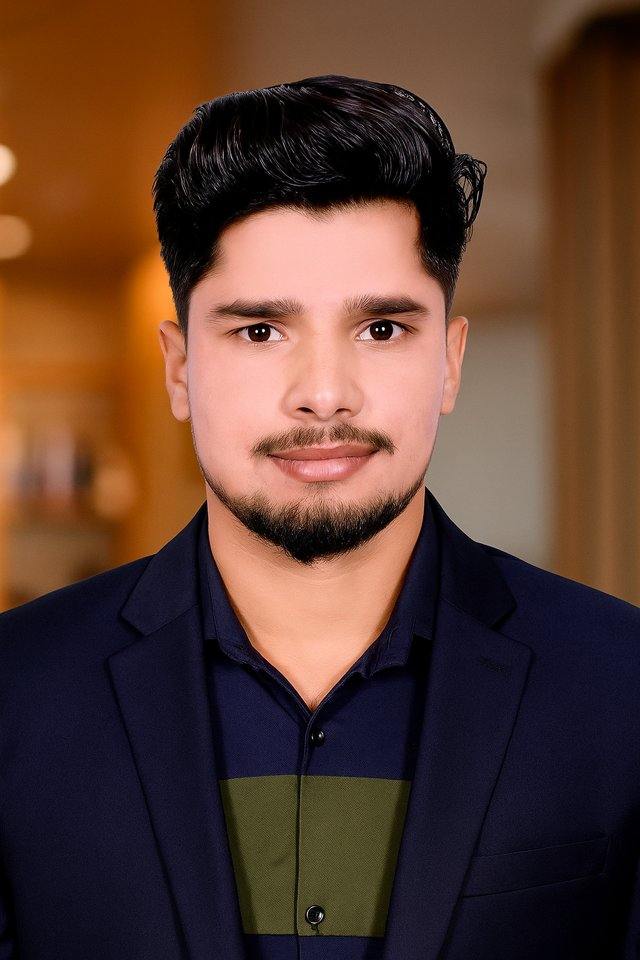
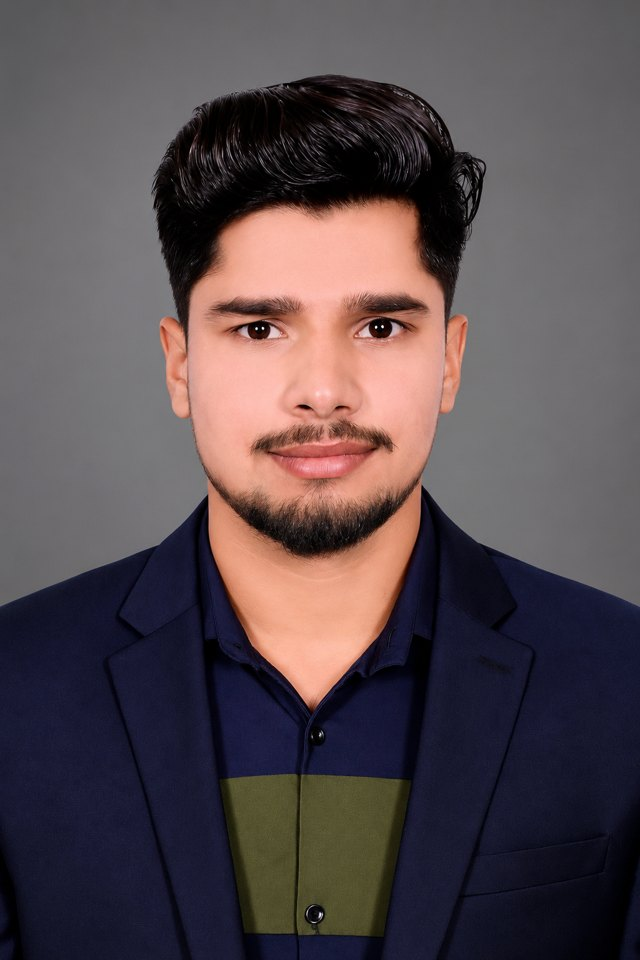
Use new professional profile photo

diff --git a/index.html b/index.html
@@ -8,7 +8,7 @@
   <meta name="description" content="Mohd Anas — Data Analyst, Data Scientist and Machine Learning Engineer based in Noida, India. Python, SQL, scikit-learn, RAG, LangGraph, Power BI.">
   <meta property="og:title" content="Mohd Anas | Data Scientist & ML Engineer">
   <meta property="og:description" content="Data analytics, machine learning and agentic AI projects.">
-  <meta property="og:image" content="profile.jpg">
+  <meta property="og:image" content="profile.jpg?v=2">
   <link rel="preconnect" href="https://fonts.googleapis.com">
   <link rel="preconnect" href="https://fonts.gstatic.com" crossorigin>
   <link href="https://fonts.googleapis.com/css2?family=Inter:wght@400;500;600;700;800&family=JetBrains+Mono:wght@500&display=swap" rel="stylesheet">
@@ -66,7 +66,7 @@
       </div>
       <div class="hero-photo reveal">
         <div class="photo-frame">
-          <img src="profile.jpg" alt="Portrait of Mohd Anas" width="640" height="960">
+          <img src="profile.jpg?v=2" alt="Portrait of Mohd Anas" width="640" height="960">
         </div>
       </div>
     </div>
